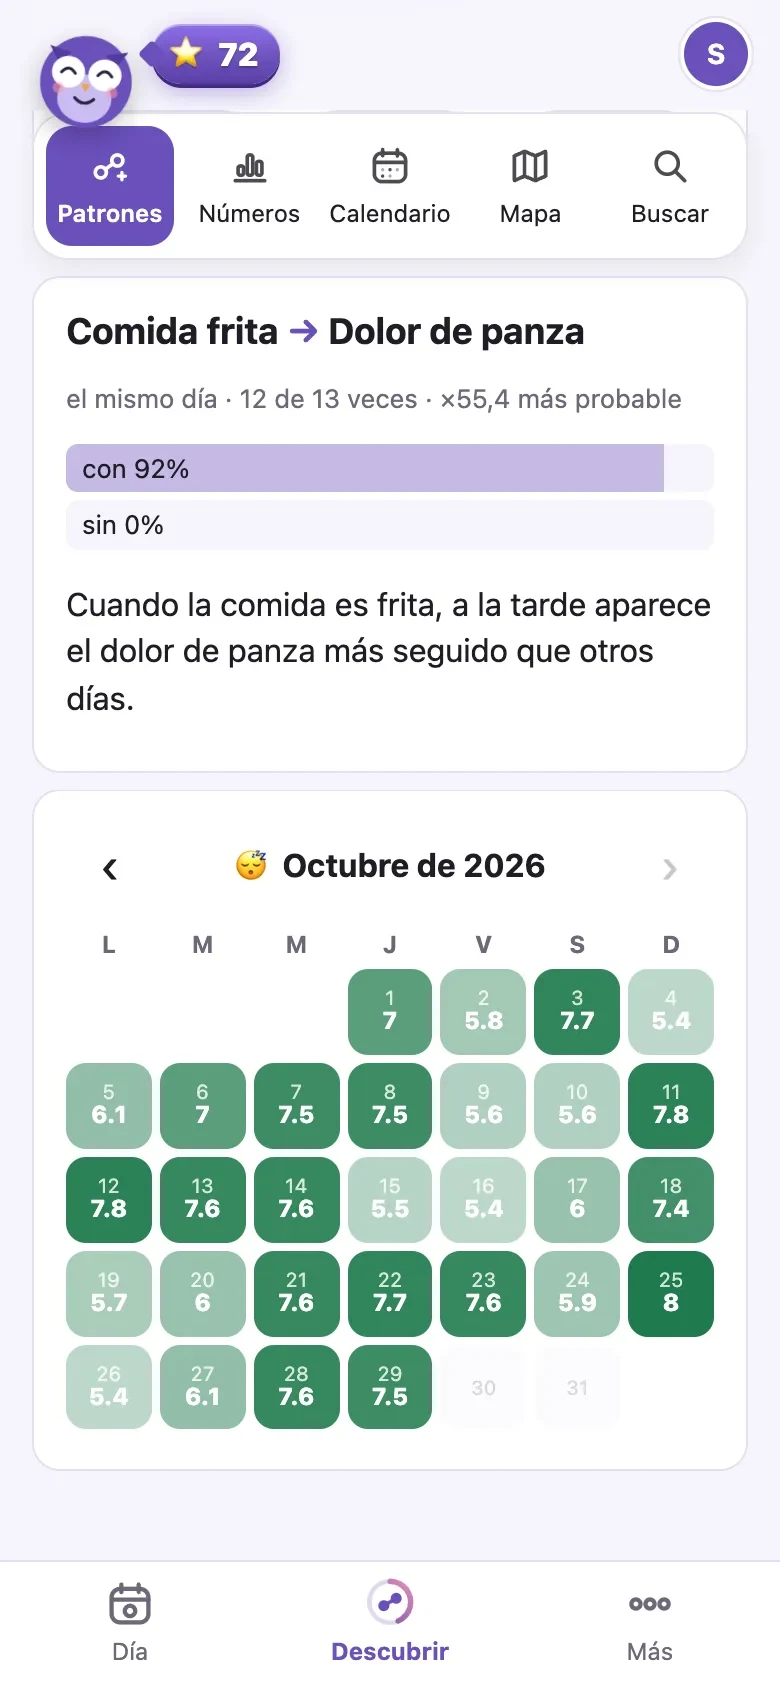
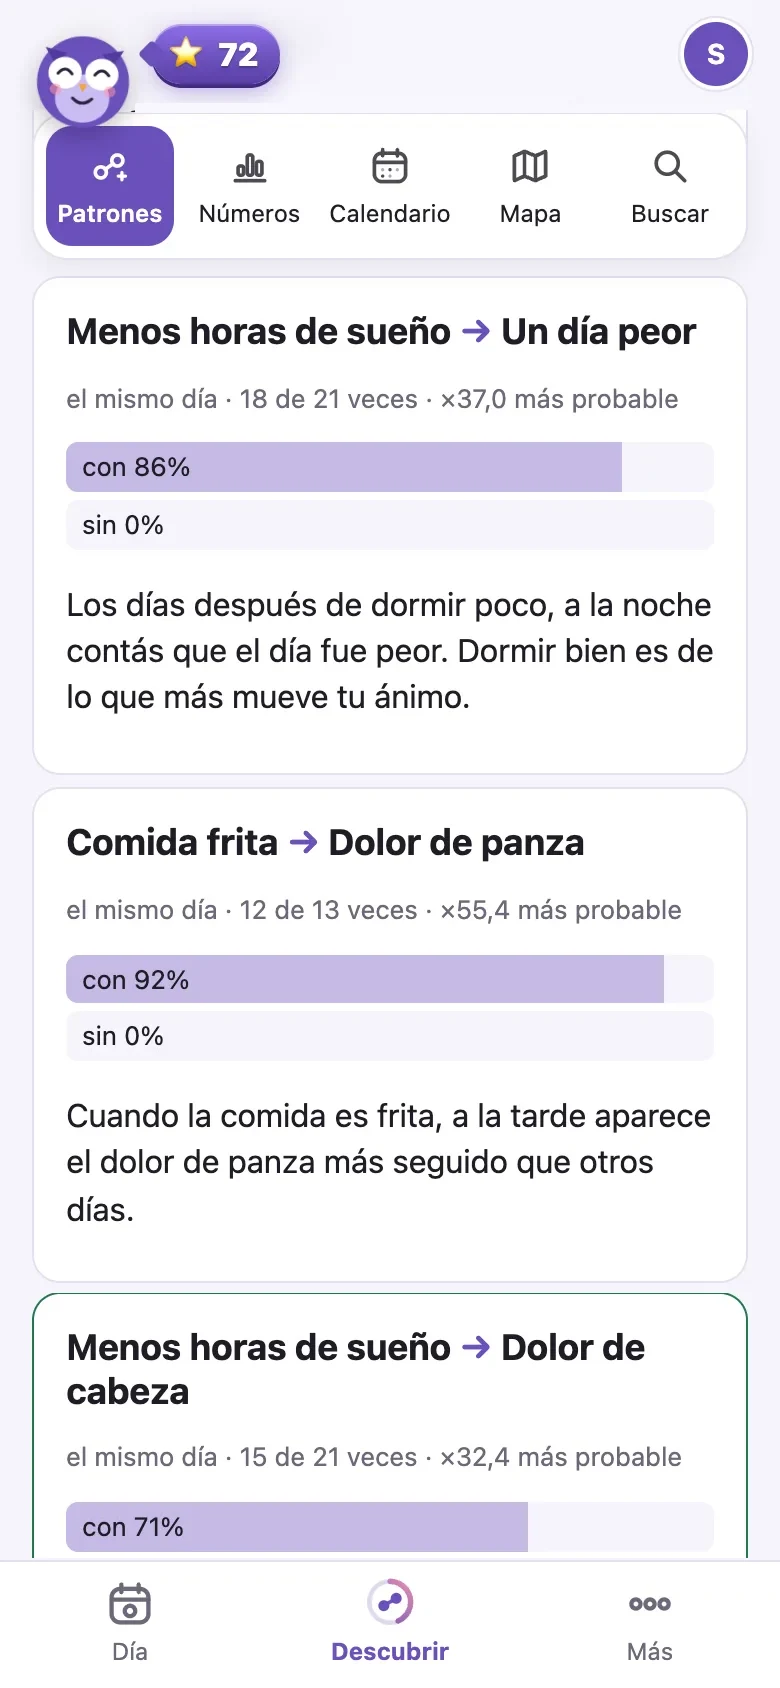
Portada de la presentación: los dos hallazgos (sueño y comida frita) y, al lado, el calendario del sueño

diff --git a/packages/shared/src/i18n/en/permisos.ts b/packages/shared/src/i18n/en/permisos.ts
@@ -905,4 +905,5 @@ export const PERMISOS: Record<string, string> = {
   "Minutos en tráfico": "Minutes in traffic",
   "Mirá cómo le cambió el día a Sofía": "See how Sofía’s day changed",
   "Lo que descubre Patty: dormir poco y el ánimo, la comida frita y el dolor de panza": "What Patty finds: little sleep and mood, fried food and stomach ache",
+  "El calendario del sueño: cuánto dormiste cada noche del mes": "The sleep calendar: how much you slept each night this month",
 };

diff --git a/apps/web/src/pantallas/Presentacion.tsx b/apps/web/src/pantallas/Presentacion.tsx
@@ -144,6 +144,7 @@ export function Presentacion({ alEntrar, conSesion = false }: { alEntrar(): void
         </div>
         <div className="pres-telefonos">
           <Telefono img="portada.webp" alt={t('Lo que descubre Patty: dormir poco y el ánimo, la comida frita y el dolor de panza')} />
+          <Telefono img="calendario.webp" alt={t('El calendario del sueño: cuánto dormiste cada noche del mes')} chico />
         </div>
       </section>
 

diff --git a/apps/web/movil/presentacion/portada.py b/apps/web/movil/presentacion/portada.py
@@ -1,29 +1,39 @@
-# La portada de la presentación: un teléfono que junta lo más propio de Patty en una sola pantalla: un hallazgo
-# (Comida frita → Dolor de panza) y el calendario del sueño. Se arma recortando dos capturas de verdad (patrones.webp y
-# calendario.webp, de capturar.mjs) y queda en public/presentacion/portada.webp. Uso: python3 portada.py
+# La portada de la presentación: lo más propio de Patty, lo que descubre. Junta en una pantalla los dos primeros
+# hallazgos (sin los botones de "¿Te sirve?") recortando una captura de verdad (hallazgos.webp, de capturar.mjs), y
+# queda en public/presentacion/portada.webp. Abajo asoma el hallazgo que sigue (de patrones.webp), como si siguiera
+# la pantalla. Uso: python3 portada.py
 from pathlib import Path
-from PIL import Image
+from PIL import Image, ImageDraw
 
 aqui = Path(__file__).parent
 dir_ = aqui / '../../public/presentacion'
-pat = Image.open(dir_ / 'patrones.webp').convert('RGB')
-cal = Image.open(dir_ / 'calendario.webp').convert('RGB')
-W, H = pat.size
-fondo = cal.getpixel((8, 1450))
+h = Image.open(dir_ / 'hallazgos.webp').convert('RGB')
+sig = Image.open(dir_ / 'patrones.webp').convert('RGB')
+W, H = h.size
+fondo = h.getpixel((8, 1000))
 
+# El encabezado fijo deja ver, apenas, el texto de una tarjeta de más arriba: se tapa con el color del fondo.
+arriba = h.crop((0, 0, W, 275))
+ImageDraw.Draw(arriba).rectangle((135, 103, 725, 112), fill=h.getpixel((400, 98)))
+
+final_tarjeta = h.crop((0, 925, W, 968))  # el borde de abajo de una tarjeta, con su respiro
 tramos = [
-    (pat, 0, 740),      # arriba, las pestañas y el hallazgo hasta su explicación
-    (pat, 925, 975),    # el final de la tarjeta (sin los botones de "¿Te sirve?")
-    (cal, 425, 1075),   # el calendario del sueño
-    (cal, 1335, 1380),  # el final de su tarjeta
+    arriba,
+    h.crop((0, 275, W, 742)),     # Menos horas de sueño → Un día peor, hasta su explicación
+    final_tarjeta,
+    h.crop((0, 980, W, 1445)),    # Comida frita → Dolor de panza, hasta su explicación
+    final_tarjeta,
 ]
-alto_tramos = sum(b - a for _, a, b in tramos)
-nav = (cal, H - 133, H)
 out = Image.new('RGB', (W, H), fondo)
 y = 0
-for img, a, b in tramos:
-    out.paste(img.crop((0, a, W, b)), (0, y))
-    y += b - a
-out.paste(nav[0].crop((0, nav[1], W, nav[2])), (0, H - 133))
+for t in tramos:
+    out.paste(t, (0, y))
+    y += t.height
+# Lo que queda hasta la barra de abajo: el principio del hallazgo que sigue (que continúa debajo de la barra).
+NAV = 130
+out.paste(sig.crop((0, 983, W, 983 + H - NAV - y)), (0, y))
+# La barra de abajo, de una captura donde no asoma nada detrás (las demás tienen pestañas de Descubrir iguales).
+barra = Image.open(dir_ / 'calendario.webp').convert('RGB')
+out.paste(barra.crop((0, H - NAV, W, H)), (0, H - NAV))
 out.save(dir_ / 'portada.webp', quality=88)
-print('portada.webp', out.size, 'contenido', alto_tramos)
+print('portada.webp', out.size, 'contenido', y)
